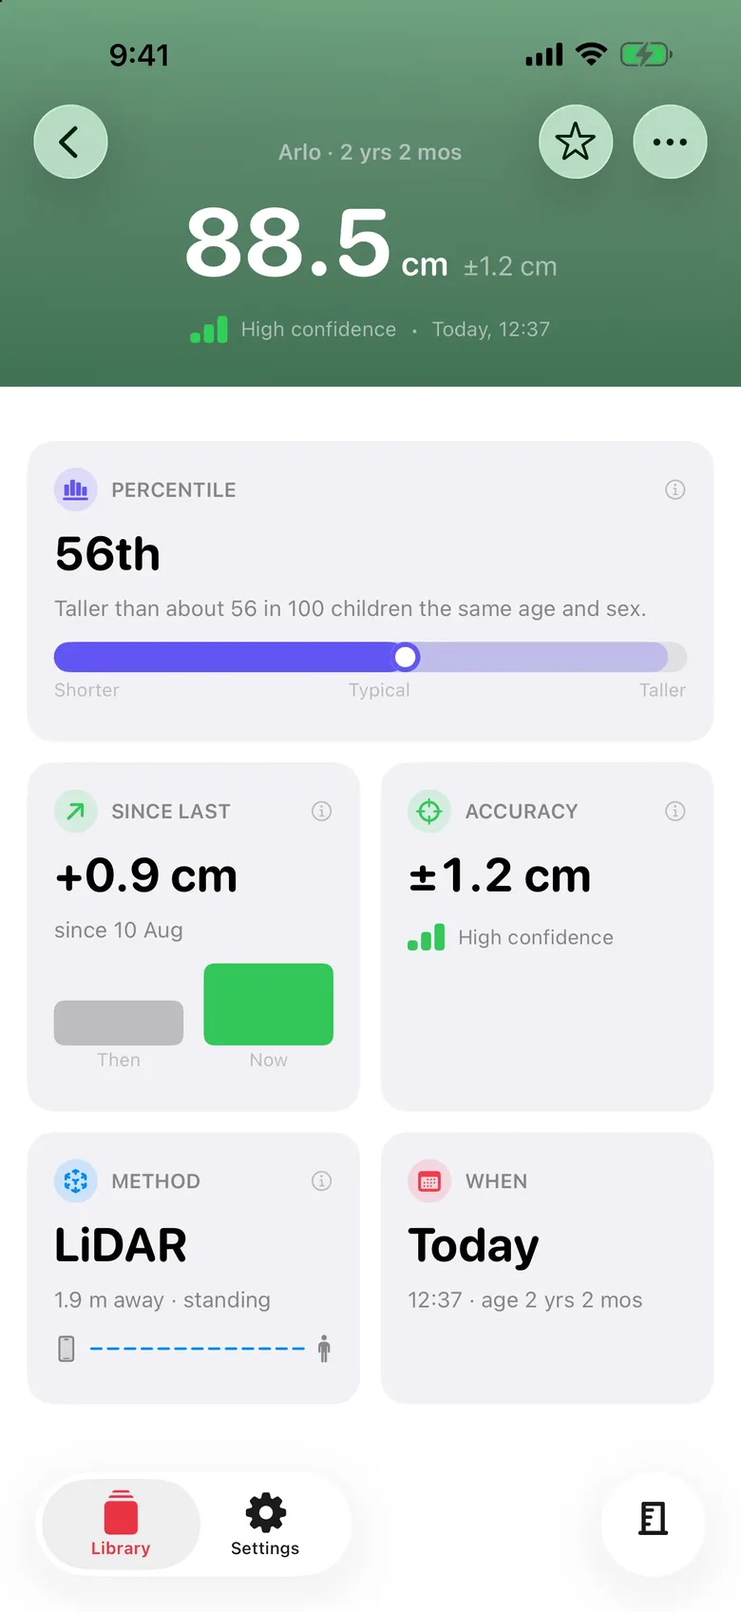
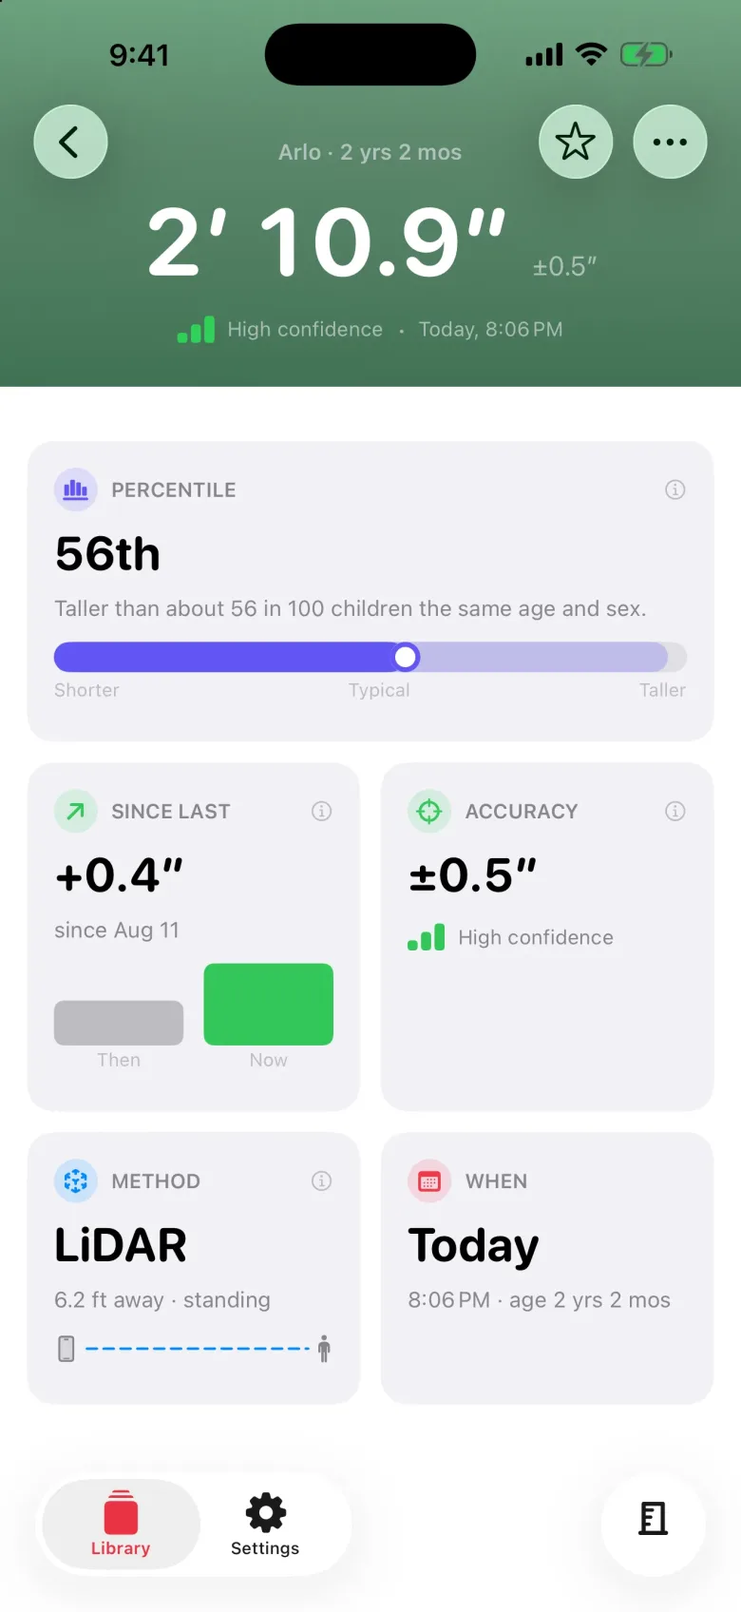
feat: heights in feet and inches (en_US shots and copy)
- Screenshots replaced with the app side's en_US shots (resized to 780 × 1696).
- stand-up removed (the demo figure looked like a debug screen); the standing
  block shows the tip as an HTML pill beside check-card.
- Every height in the HTML, alt text, DoorScene, Moments, FAQ and the guide is
  the app's HeightFormatter imperial value (2′ 11.8″ ± 0.4″, 5′ 7.3″ – 6′ 1.0″);
  distances read "about 4 to 11 feet". The FAQ's units answer says it follows
  the iPhone's region or Settings.
- The share image re-rendered with feet and inches.

diff --git a/src/routes/+page.svelte b/src/routes/+page.svelte
@@ -45,13 +45,17 @@
 		{
 			icon: 'gauge',
 			title: 'Every height shows its range',
-			body: 'Like ± 0.9 cm, and how sure it is.'
+			body: 'Like ± 0.4″, and how sure it is.'
 		}
 	];
 
 	const also = [
 		{ icon: 'bell', title: 'Reminders to measure', body: 'Per person, scheduled on your iPhone.' },
-		{ icon: 'ruler', title: 'Your units', body: 'Feet and inches or centimetres, by region.' },
+		{
+			icon: 'ruler',
+			title: 'Your units',
+			body: "Feet and inches or centimetres, by your iPhone's region or in Settings."
+		},
 		{ icon: 'share', title: 'Export to CSV', body: 'Every measurement, in a file you share.' },
 		{ icon: 'stand', title: 'Any age', body: 'Kids, grown-ups, and friends measuring for fun.' }
 	];
@@ -105,7 +109,7 @@
 
 <div id="features">
 	<Feature id="measure" eyebrow="Measure" title="Measure your child's height with your iPhone.">
-		<p>Point, hold still, done. It captures by itself from 1.2 to 3.5 m away.</p>
+		<p>Point, hold still, done. It captures by itself from about 4 to 11 feet away.</p>
 		<p class="text-base text-label-3">
 			Live measuring needs LiDAR (iPhone 12 Pro and later Pro models). Any iPhone can type a height.
 			<a href="/how-to-measure-height" class="text-accent underline underline-offset-2"
@@ -118,7 +122,7 @@
 				<Screenshot
 					name="measure-live"
 					dark={false}
-					alt="Doorframe's Measure screen: a toddler standing on a wooden floor, measured live at 91.0 cm, plus or minus 0.9 cm, high confidence, while it says Hold still. Capturing"
+					alt="Doorframe's Measure screen: a toddler standing on a wooden floor, measured live at 2 feet 11.8 inches, plus or minus 0.4 inches, high confidence, while it says Hold still. Capturing"
 				/>
 			</PhoneFrame>
 		{/snippet}
@@ -139,10 +143,10 @@
 			<div
 				class="inline-flex items-center gap-4 rounded-full bg-grouped py-3 pr-6 pl-7"
 				role="img"
-				aria-label="A reading: 91.2 cm, plus or minus 0.9 cm, high confidence"
+				aria-label="A reading: 2 feet 11.8 inches, plus or minus 0.4 inches, high confidence"
 			>
-				<span class="font-rounded text-3xl font-bold tabular-nums">91.2 cm</span>
-				<span class="text-sm leading-tight text-label-2">± 0.9 cm<br />High confidence</span>
+				<span class="font-rounded text-3xl font-bold tabular-nums">2′ 11.8″</span>
+				<span class="text-sm leading-tight text-label-2">± 0.4″<br />High confidence</span>
 				<span class="flex items-end gap-0.5 text-go" aria-hidden="true">
 					<span class="h-2 w-1.5 rounded-sm bg-current"></span>
 					<span class="h-3 w-1.5 rounded-sm bg-current"></span>
@@ -161,23 +165,21 @@
 		<p>Sitting, squatting or kneeling? It waits.</p>
 		<p>Shorter than last time? It asks "Were they standing up?" before you save.</p>
 		{#snippet media()}
-			<div class="flex items-start gap-4 sm:gap-6">
-				<PhoneFrame width="min(240px, 42vw)">
+			<div class="flex flex-col items-center gap-8">
+				<!-- Measure's tip while they sit, squat or kneel (LiveQuality .standUp), as the app's capsule. -->
+				<p
+					class="inline-flex items-center gap-2 rounded-full bg-[#1c1c1e]/85 px-4 py-2 text-sm font-medium text-white"
+				>
+					<Icon name="stand" class="size-4" />
+					Ask them to stand up straight
+				</p>
+				<PhoneFrame>
 					<Screenshot
-						name="stand-up"
+						name="check-card"
 						dark={false}
-						alt="Measure, with the tip Ask them to stand up straight above a figure in the camera view"
+						alt="Save for Arlo? 1 foot 11.7 inches, plus or minus 0.4 inches, with a card: Were they standing up? 11.2 inches shorter than earlier today, and they looked like they were sitting or bending. If so, retake it. Retake and Save below"
 					/>
 				</PhoneFrame>
-				<div class="mt-16">
-					<PhoneFrame width="min(240px, 42vw)">
-						<Screenshot
-							name="check-card"
-							dark={false}
-							alt="Save for Arlo? 60.2 cm, plus or minus 0.9 cm, with a card: Were they standing up? 28.3 cm shorter than earlier today, and they looked like they were sitting or bending. If so, retake it. Retake and Save below"
-						/>
-					</PhoneFrame>
-				</div>
 			</div>
 		{/snippet}
 	</Feature>
@@ -199,7 +201,7 @@
 					<PhoneFrame width="min(240px, 42vw)">
 						<Screenshot
 							name="wall"
-							alt="The full Doorframe: a line-drawn door frame with a ruler; Sam 180.0 cm, Maya 164.0 cm and Arlo 88.5 cm as coloured marks, Arlo's older heights as faint ticks"
+							alt="The full Doorframe: a line-drawn door frame with a ruler in feet; Sam 5 feet 10.9 inches, Maya 5 feet 4.6 inches and Arlo 2 feet 10.9 inches as coloured marks, Arlo's older heights as faint ticks"
 						/>
 					</PhoneFrame>
 				</div>
@@ -213,7 +215,7 @@
 			<PhoneFrame>
 				<Screenshot
 					name="entry-cards"
-					alt="Arlo's measurement: 88.5 cm, plus or minus 1.2 cm, high confidence, today at 12:37; below, cards for Percentile (56th, taller than about 56 in 100 children the same age and sex), Since last (+0.9 cm since 10 Aug), Accuracy (±1.2 cm), Method (LiDAR, 1.9 m away, standing) and When (today, age 2 yrs 2 mos)"
+					alt="Arlo's measurement: 2 feet 10.9 inches, plus or minus 0.5 inches, high confidence, today; below, cards for Percentile (56th, taller than about 56 in 100 children the same age and sex), Since last (+0.4 inches since Aug 11), Accuracy (±0.5 inches), Method (LiDAR, 6.2 feet away, standing) and When (today, age 2 yrs 2 mos)"
 				/>
 			</PhoneFrame>
 		{/snippet}
@@ -226,7 +228,7 @@
 			<PhoneFrame>
 				<Screenshot
 					name="chart"
-					alt="Arlo's page: a Grown-up height card, 170.9 cm to 185.4 cm, an estimate from CDC data and parents' heights, not a promise; a Milestone card, Age 14, Arlo passes Maya in height; then his growth chart, his measurements rising along the shaded percentile bands"
+					alt="Arlo's page: a Grown-up height card, 5 feet 7.3 inches to 6 feet 1.0 inch, an estimate from CDC data and parents' heights, not a promise; a Milestone card, Age 14, Arlo passes Maya in height; then his growth chart, his measurements rising along the shaded percentile bands"
 				/>
 			</PhoneFrame>
 		{/snippet}

diff --git a/src/lib/content/faq.ts b/src/lib/content/faq.ts
@@ -34,15 +34,15 @@ export const FAQ: FaqTopic[] = [
 			},
 			{
 				q: "How do I measure my child's height at home?",
-				a: "Take their shoes off and stand them straight on a hard floor, heels down, looking ahead. With Doorframe, point your iPhone at them from about 1.2 to 3.5 metres away, with their head and feet in view, and hold still: once they're standing up straight, it captures by itself, then asks who it is. For a baby, switch to Lying and lay them flat on the floor. Measure at the same time of day each time; people are a little taller in the morning."
+				a: "Take their shoes off and stand them straight on a hard floor, heels down, looking ahead. With Doorframe, point your iPhone at them from about 4 to 11 feet (1.2 to 3.5 m) away, with their head and feet in view, and hold still: once they're standing up straight, it captures by itself, then asks who it is. For a baby, switch to Lying and lay them flat on the floor. Measure at the same time of day each time; people are a little taller in the morning."
 			},
 			{
 				q: 'How do I measure someone?',
-				a: 'Tap the Measure button in the tab bar. Stand them on the floor, about 1.2 to 3.5 metres away (closer for a baby lying down), with their head and feet in view, and hold roughly still. The ring around Capture fills and Doorframe captures by itself, then asks who it is. If they sit or bend, it says "Ask them to stand up straight" and waits. You can also tap Capture once it turns green. Turn Auto off if you\'d rather always tap.'
+				a: 'Tap the Measure button in the tab bar. Stand them on the floor, about 4 to 11 feet away (closer for a baby lying down), with their head and feet in view, and hold roughly still. The ring around Capture fills and Doorframe captures by itself, then asks who it is. If they sit or bend, it says "Ask them to stand up straight" and waits. You can also tap Capture once it turns green. Turn Auto off if you\'d rather always tap.'
 			},
 			{
 				q: 'How accurate is it?',
-				a: "Every height shows its range (for example 91.2 cm ± 0.9 cm) and how confident Doorframe is. It captures by itself only when it can see their head, their feet and the floor, they're standing up straight, and several readings agree, so measuring someone again gives much the same height: in our testing, usually within about a centimetre between runs. For the best reading, stand them straight, use good light, and hold still. If the range looks wide, measure again."
+				a: "Every height shows its range (for example 2′ 11.8″ ± 0.4″) and how confident Doorframe is. It captures by itself only when it can see their head, their feet and the floor, they're standing up straight, and several readings agree, so measuring someone again gives much the same height: in our testing, usually within about half an inch between runs. For the best reading, stand them straight, use good light, and hold still. If the range looks wide, measure again."
 			},
 			{
 				q: 'What if my toddler sits down?',
@@ -136,7 +136,7 @@ export const FAQ: FaqTopic[] = [
 			},
 			{
 				q: 'How do I switch between centimetres and feet and inches?',
-				a: 'Doorframe follows your region: feet and inches in the US, centimetres elsewhere. To choose, go to Settings, then Units.'
+				a: "Doorframe shows feet and inches or centimetres, following your iPhone's region: feet and inches in the US, centimetres elsewhere. To choose, go to Settings, then Units."
 			},
 			{
 				q: 'What happens if I delete the app?',

diff --git a/src/routes/how-to-measure-height/+page.svelte b/src/routes/how-to-measure-height/+page.svelte
@@ -26,7 +26,7 @@
 	];
 
 	const withDoorframe = [
-		'Shoes off. Stand them on the floor, 1.2 to 3.5\u00a0m from your iPhone.',
+		'Shoes off. Stand them on the floor, about 4 to 11\u00a0feet from your iPhone.',
 		'Open Measure. Keep their head and feet in view.',
 		'Hold still. Doorframe captures once they stand up straight and its readings agree.',
 		'It asks who it is, and the height goes on their page and the family door.'
@@ -88,7 +88,7 @@
 						{#each withDoorframe as step (step)}<li>{step}</li>{/each}
 					</ol>
 					<p class="mt-5 leading-relaxed text-label-2">
-						Every height shows its range, like 91.0 cm ± 0.9 cm. No pencil on the wall, and no book
+						Every height shows its range, like 2′ 11.8″ ± 0.4″. No pencil on the wall, and no book
 						on their head.
 					</p>
 					<p class="mt-3 text-base text-label-3">
@@ -101,7 +101,7 @@
 						<Screenshot
 							name="measure-live"
 							dark={false}
-							alt="Doorframe's Measure screen: a toddler standing on a wooden floor, measured live at 91.0 cm, plus or minus 0.9 cm"
+							alt="Doorframe's Measure screen: a toddler standing on a wooden floor, measured live at 2 feet 11.8 inches, plus or minus 0.4 inches"
 						/>
 					</PhoneFrame>
 				</div>

diff --git a/src/lib/components/MomentsShowcase.svelte b/src/lib/components/MomentsShowcase.svelte
@@ -8,7 +8,7 @@
 <!--
   The Library's Moments shelf, drawn rather than photographed. Every title and
   detail is a sentence the app writes (Moment.title/detail in HomeCards.swift)
-  about the sample family, in centimetres; "Tap to measure." is left off the
+  about the sample family, in feet and inches (en_US); "Tap to measure." is left off the
   last, since a picture can't be tapped. Styled like the app's cards (build 11,
   Photos Memories): with no photo, the person's colour deepened toward the text,
   white words, and the moment's symbol large and faint in the corner. Every
@@ -19,7 +19,7 @@
 	import Icon from './Icon.svelte';
 
 	const moments = [
-		{ icon: 'grew', title: 'Arlo grew 0.9 cm', detail: 'Since 10 Aug' },
+		{ icon: 'grew', title: 'Arlo grew 0.4″', detail: 'Since Aug 11' },
 		{
 			icon: 'will-pass',
 			title: 'Arlo passes Maya at about 14',
@@ -27,7 +27,7 @@
 		},
 		{
 			icon: 'sparkles',
-			title: 'Arlo may grow to 170.9 cm – 185.4 cm',
+			title: 'Arlo may grow to 5′ 7.3″ – 6′ 1.0″',
 			detail: "An estimate from CDC data and parents' heights, not a promise."
 		},
 		{ icon: 'ruler', title: 'Time to measure Arlo', detail: 'Last measured 46 days ago.' }

diff --git a/src/lib/components/DoorScene.svelte b/src/lib/components/DoorScene.svelte
@@ -26,10 +26,11 @@
 	const LABEL_ROOM = 96;
 
 	// The app's sample family (SampleData.swift), shortest first; colours are the palette's `solid`.
+	// Labels are HeightFormatter's feet and inches (en_US); `m` places the marks.
 	const family = [
-		{ name: 'Arlo', m: 0.885, label: '88.5 cm', colour: '#6fcf97' },
-		{ name: 'Maya', m: 1.64, label: '164.0 cm', colour: '#5ac8fa' },
-		{ name: 'Sam', m: 1.8, label: '180.0 cm', colour: '#5e5ce6' }
+		{ name: 'Arlo', m: 0.885, label: '2′ 10.9″', colour: '#6fcf97' },
+		{ name: 'Maya', m: 1.64, label: '5′ 4.6″', colour: '#5ac8fa' },
+		{ name: 'Sam', m: 1.8, label: '5′ 10.9″', colour: '#5e5ce6' }
 	];
 
 	// DoorLayout: px per metre is whichever of height and width runs out first.

diff --git a/scripts/og-image.html b/scripts/og-image.html
@@ -91,9 +91,9 @@
 				FLOOR = 0.7 * H,
 				ink = '#e7e7ec';
 			const family = [
-				['Arlo', 0.885, '88.5 cm', '#6fcf97'],
-				['Maya', 1.64, '164.0 cm', '#5ac8fa'],
-				['Sam', 1.8, '180.0 cm', '#5e5ce6']
+				['Arlo', 0.885, '2′ 10.9″', '#6fcf97'],
+				['Maya', 1.64, '5′ 4.6″', '#5ac8fa'],
+				['Sam', 1.8, '5′ 10.9″', '#5e5ce6']
 			];
 			const topMetres = Math.max(2.25, 1.8 * 1.06);
 			const S = Math.min((FLOOR - 0.06 * H) / topMetres, (W * 0.86 - 96) / 1.32);

diff --git a/docs/app-handoff-2026-10-11b.md b/docs/app-handoff-2026-10-11b.md
@@ -1,0 +1,78 @@
+# From the app side: show heights in feet and inches (before launch)
+
+Written 2026-10-11 by the Doorframe app agent (session `doorframe-6d`), at
+the owner's request. **This must be done before the production deploy** (the
+deploy still waits for the owner's go once the App Store page opens).
+
+## Why
+
+Every height on the site is in centimetres: the screenshots were taken in
+en_GB and the HTML copies those numbers. Most visitors are in the US, and
+the App Store listing and screenshots are en_US. The owner wants **feet and
+inches everywhere**, so the numbers make sense to a US parent.
+
+The app does this by itself: units follow the iPhone's region (US = feet
+and inches), or a setting. All values below come from the app's own
+formatter (`HeightFormatter`), so the site and the app match exactly.
+
+## 1. New screenshots (en_US, feet and inches)
+
+Folder: `docs/app-handoff-2026-10-11b/screens/` (1320 × 2868, `.webp`, the
+same scenes as the ones you have). **Replace** the files in
+`static/images/screens/` with the same names. Your current files are
+780 × 1696, so resize them to match.
+
+| File                     | Shows                                                                                                                                | Was              |
+| ------------------------ | ------------------------------------------------------------------------------------------------------------------------------------ | ---------------- |
+| `measure-live-light`     | The AI toddler scene, reading **2′ 11.8″ ±0.4″ · 5.9 ft away**, "Hold still. Capturing…"                                             | 91.0 cm          |
+| `check-card-light`       | Save for Arlo? **1′ 11.7″ ±0.4″**; "Were they standing up? **11.2″ shorter** than earlier today…"                                    | 60.2 cm, 28.3 cm |
+| `library-light/dark`     | Doorframe card: Sam **5′ 10.9″**, Maya **5′ 4.6″**, Arlo **2′ 10.9″**; Recent 2′ 10.9″ (Today), 2′ 10.5″ (Aug 11), 2′ 10.1″ (Jun 11) | cm               |
+| `wall-light/dark`        | Full-screen Doorframe, ruler in **feet** (1′–6′), the same three marks                                                               | ruler in cm      |
+| `entry-cards-light/dark` | Arlo **2′ 10.9″ ±0.5″**, 56th, Since last **+0.4″ since Aug 11**, Accuracy **±0.5″**, LiDAR **6.2 ft away**, Today, age 2 yrs 2 mos  | 88.5 cm          |
+| `chart-light/dark`       | Grown-up height **5′ 7.3″ – 6′ 1.0″**, Age 14 milestone, chart axis in **inches**                                                    | cm               |
+
+## 2. The "stand up" screen (`stand-up-light`): drop the picture
+
+It shows the demo's grey stand-in figure and a sitting reading of 60.2 cm.
+To a visitor that looks like a debug screen. **Remove that screenshot.**
+If the "Wriggly toddlers" block needs a visual next to the check card, show
+the tip as a small HTML pill, like your 91.2 cm reading card: a person
+symbol and **"Ask them to stand up straight"**, with no number.
+`check-card-light` stays as the main visual for that block.
+
+## 3. Heights written in the HTML and text
+
+Change each one (alt text too):
+
+| Where                                              | Now                                                                    | Make it                                                                                                         |
+| -------------------------------------------------- | ---------------------------------------------------------------------- | --------------------------------------------------------------------------------------------------------------- |
+| `+page.svelte` reading card                        | 91.2 cm, ± 0.9 cm                                                      | **2′ 11.8″**, **± 0.4″**, High confidence (the same as the measure-live shot)                                   |
+| `+page.svelte` coaching                            | "Like ± 0.9 cm, and how sure it is."                                   | "Like ± 0.4″, and how sure it is."                                                                              |
+| `+page.svelte` measure-live alt                    | 91.0 cm, plus or minus 0.9 cm                                          | 2 feet 11.8 inches, plus or minus 0.4 inches                                                                    |
+| `+page.svelte` check-card alt                      | 60.2 cm … 28.3 cm shorter                                              | 1 foot 11.7 inches … 11.2 inches shorter                                                                        |
+| `+page.svelte` wall / library / entry / chart alts | cm values                                                              | the values in the table in section 1 (dates: **Aug 11**, 6.2 ft away; no clock time needed)                     |
+| `DoorScene.svelte` labels                          | 88.5 cm, 164.0 cm, 180.0 cm                                            | **2′ 10.9″**, **5′ 4.6″**, **5′ 10.9″** (keep `m` as is for the drawing; if it draws a ruler, label it in feet) |
+| `MomentsShowcase.svelte`                           | "Arlo grew 0.9 cm" · "Since 10 Aug"                                    | "Arlo grew **0.4″**" · "Since **Aug 11**"                                                                       |
+| `MomentsShowcase.svelte`                           | "may grow to 170.9 cm – 185.4 cm"                                      | "may grow to **5′ 7.3″ – 6′ 1.0″**"                                                                             |
+| `faq.ts` accuracy answer                           | "(for example 91.2 cm ± 0.9 cm)" … "usually within about a centimetre" | "(for example 2′ 11.8″ ± 0.4″)" … "usually within about half an inch"                                           |
+| `how-to-measure-height`                            | "like 91.0 cm ± 0.9 cm", and the alt                                   | "like 2′ 11.8″ ± 0.4″", and the alt as above                                                                    |
+
+Format: use the app's characters, the prime **′** and the double prime **″**
+(not ' and "), with a space after the feet: `2′ 11.8″`. Ranges use an en dash
+with spaces: `5′ 7.3″ – 6′ 1.0″`.
+
+**Keep metric where it is a fact, not an example.** Say once (the FAQ or
+the features list) that Doorframe shows **feet and inches or centimetres**,
+following the iPhone's region, or chosen in Settings. Leave alone any
+distances in the measuring guide that are already in feet, and anything
+that quotes a standard (WHO/CDC).
+
+## 4. Check
+
+- Search `src/` for "cm" and " m " afterwards. Only the units sentence, and
+  anything you deliberately left metric, should remain.
+- Lighthouse as before. Image weight should stay about the same after the
+  resize.
+- Update the preview (site PR #3) and tell `doorframe-6d`: the preview URL,
+  and anything you left in metric and why. **Production stays waiting for
+  the owner's go** (once https://apps.apple.com/app/id6819159306 opens).

diff --git a/AGENTS.md b/AGENTS.md
@@ -59,7 +59,7 @@ scripts/
   verify-lib.js (+ .test.js), verify.js   the copy and origin checks
   export-wordmark.swift   SF Pro Rounded Bold 48pt, tracking -0.6 → SVG outlines
   shots.sh                simulator screenshots via the app's DEBUG launch arguments
-static/images/screens/    {library,wall,chart,entry-cards}-{light,dark}.webp, {measure-live,stand-up,check-card}-light.webp (780 × 1696)
+static/images/screens/    {library,wall,chart,entry-cards}-{light,dark}.webp, {measure-live,check-card}-light.webp (780 × 1696)
 static/images/badges/     Apple's "Download on the App Store" badge, black and white (unaltered)
 static/images/og-image.png  1200 × 630, rendered from scripts/og-image.html
 ```
@@ -71,12 +71,12 @@ static/images/og-image.png  1200 × 630, rendered from scripts/og-image.html
 - **Moments** (`MomentsShowcase`) are drawn, not photographed; every sentence is one the app writes (`Moment.title/detail` in `HomeCards.swift`).
 - **Wordmark:** `swift scripts/export-wordmark.swift > src/lib/assets/wordmark-path.ts`.
 - **Icons** (from the app's `docs/design/icon/final/`, 2026-10-06, app build 8): `static/favicon.svg` is `door.svg` + `mark.svg` (C2PA metadata stripped) on a rounded square, tightly cropped, with a `prefers-color-scheme: dark` variant. `favicon.ico` (16/32/48) and `favicon-96x96.png` render that crop on white; `apple-touch-icon.png`, `icon-192/512.png` are the full 1024 composition, opaque and full-bleed on white (`resvg`). The OG image places `app-icon-1024.png` (transparent corners) on its dark background.
-- **Screenshots:** build the app from `~/Code/ios/Doorframe` for **your own** simulator (never the app agent's `0398B2DE-…`; other agents keep simulators booted, so the script never targets `booted`), install it, then `SIM=<udid> scripts/shots.sh <name> <light|dark> [args]`. It sets 9:41, en_GB (centimetres) and `-demoData -skipOnboarding -inMemory`. Shots: `library` (no args), `wall` (`-openWall`), `chart` (`-openPerson -scrollChart`), `confirm` (`-tab measure -demoLive`, `SHOT_WAIT=12`: auto-capture fires and shows "Is this Arlo?"). `-scrollChart` and `-demoReady` (a frozen steady HUD: `-tab measure -demoLive -demoReady`) are in the app's `main` since 3d164be; all 8 shots were replaced on 2026-10-07 by the app side's build 9 shots (9:41, en_GB, from its uncommitted work: retake if the merged build differs). The simulator can't run ARKit, so the Measure section uses the app side's `measure-live` (2026-10-11: the real Measure screen over an AI-generated scene); a real shot from the owner's iPhone can replace it. `measure-live`, `stand-up` and `check-card` are light only.
+- **Screenshots:** build the app from `~/Code/ios/Doorframe` for **your own** simulator (never the app agent's `0398B2DE-…`; other agents keep simulators booted, so the script never targets `booted`), install it, then `SIM=<udid> scripts/shots.sh <name> <light|dark> [args]`. It sets 9:41, en_GB (centimetres) and `-demoData -skipOnboarding -inMemory`. Shots: `library` (no args), `wall` (`-openWall`), `chart` (`-openPerson -scrollChart`), `confirm` (`-tab measure -demoLive`, `SHOT_WAIT=12`: auto-capture fires and shows "Is this Arlo?"). `-scrollChart` and `-demoReady` (a frozen steady HUD: `-tab measure -demoLive -demoReady`) are in the app's `main` since 3d164be; all 8 shots were replaced on 2026-10-07 by the app side's build 9 shots (9:41, en_GB, from its uncommitted work: retake if the merged build differs). The simulator can't run ARKit, so the Measure section uses the app side's `measure-live` (2026-10-11: the real Measure screen over an AI-generated scene); a real shot from the owner's iPhone can replace it. `measure-live` and `check-card` are light only. **Heights are in feet and inches** (owner, 2026-10-11b): shots are en_US, and every height in the HTML is the app's `HeightFormatter` imperial value (`2′ 11.8″`, prime and double prime, a space after the feet; ranges `5′ 7.3″ – 6′ 1.0″`). The units answer in the FAQ says it follows the iPhone's region or Settings.
 - **SEO** (2026-10-10): every page passes `SeoHead` a unique title (≤ 60 characters, intent words first) and description (~150–160). JSON-LD: the home page has WebSite, Organization and MobileApplication; Support has FAQPage, built from `faq.ts`; sub-pages pass `breadcrumb` for a BreadcrumbList. Keep `lastmod` in `static/sitemap.xml` current (and add every new page). FAQ answers for search questions still describe only what the app does. Audience (owner, 2026-10-11): parents measuring kids first, but anyone (grown-ups, friends for fun); say so in titles and copy. `/how-to-measure-height` targets the search "how to measure a child's height at home" (HowTo JSON-LD); home section copy stays short (a title, one or two lines, a number).
 - **Page screenshots** (light/dark × phone/desktop): reveal sections hide until scrolled, so scroll the page before a full-page capture. Headless Chrome's window can't go below ~500 px; use Playwright with a 390 px viewport.
 
 ## At launch
 
 1. Done 2026-10-11: `APP_STORE_ID` is `6819159306` in `src/lib/constants/app.ts`. It makes `APP_STORE_URL`: the CTA is Apple's badge (`AppStoreCta`, black or white by colour scheme), the Smart App Banner (`apple-itunes-app`) appears, and the MobileApplication JSON-LD gets `downloadUrl`. Setting it to `null` brings back "Coming soon".
-2. The Measure section shows `measure-live`: the app's real Measure screen over an **AI-generated** scene (no real child; never caption it as a customer). `stand-up` and `check-card` show the standing check. Shots with no dark twin pass `dark={false}` to `Screenshot`.
+2. The Measure section shows `measure-live`: the app's real Measure screen over an **AI-generated** scene (no real child; never caption it as a customer). `check-card` shows the standing check, beside an HTML pill for the tip (the demo's `stand-up` shot looked like a debug screen; app side, 2026-10-11b). Shots with no dark twin pass `dark={false}` to `Screenshot`.
 3. If the domain ever changes: add it in Vercel, then change `SITE_URL`, `static/sitemap.xml`, `static/robots.txt`, `SITE` in `scripts/verify.js`, the canonical test in `errors.test.ts` and the host redirect in `vercel.json` together, and tell the app side the new `/privacy` and `/support` URLs (owner approval).

diff --git a/CLAUDE.md b/CLAUDE.md
@@ -59,7 +59,7 @@ scripts/
   verify-lib.js (+ .test.js), verify.js   the copy and origin checks
   export-wordmark.swift   SF Pro Rounded Bold 48pt, tracking -0.6 → SVG outlines
   shots.sh                simulator screenshots via the app's DEBUG launch arguments
-static/images/screens/    {library,wall,chart,entry-cards}-{light,dark}.webp, {measure-live,stand-up,check-card}-light.webp (780 × 1696)
+static/images/screens/    {library,wall,chart,entry-cards}-{light,dark}.webp, {measure-live,check-card}-light.webp (780 × 1696)
 static/images/badges/     Apple's "Download on the App Store" badge, black and white (unaltered)
 static/images/og-image.png  1200 × 630, rendered from scripts/og-image.html
 ```
@@ -71,12 +71,12 @@ static/images/og-image.png  1200 × 630, rendered from scripts/og-image.html
 - **Moments** (`MomentsShowcase`) are drawn, not photographed; every sentence is one the app writes (`Moment.title/detail` in `HomeCards.swift`).
 - **Wordmark:** `swift scripts/export-wordmark.swift > src/lib/assets/wordmark-path.ts`.
 - **Icons** (from the app's `docs/design/icon/final/`, 2026-10-06, app build 8): `static/favicon.svg` is `door.svg` + `mark.svg` (C2PA metadata stripped) on a rounded square, tightly cropped, with a `prefers-color-scheme: dark` variant. `favicon.ico` (16/32/48) and `favicon-96x96.png` render that crop on white; `apple-touch-icon.png`, `icon-192/512.png` are the full 1024 composition, opaque and full-bleed on white (`resvg`). The OG image places `app-icon-1024.png` (transparent corners) on its dark background.
-- **Screenshots:** build the app from `~/Code/ios/Doorframe` for **your own** simulator (never the app agent's `0398B2DE-…`; other agents keep simulators booted, so the script never targets `booted`), install it, then `SIM=<udid> scripts/shots.sh <name> <light|dark> [args]`. It sets 9:41, en_GB (centimetres) and `-demoData -skipOnboarding -inMemory`. Shots: `library` (no args), `wall` (`-openWall`), `chart` (`-openPerson -scrollChart`), `confirm` (`-tab measure -demoLive`, `SHOT_WAIT=12`: auto-capture fires and shows "Is this Arlo?"). `-scrollChart` and `-demoReady` (a frozen steady HUD: `-tab measure -demoLive -demoReady`) are in the app's `main` since 3d164be; all 8 shots were replaced on 2026-10-07 by the app side's build 9 shots (9:41, en_GB, from its uncommitted work: retake if the merged build differs). The simulator can't run ARKit, so the Measure section uses the app side's `measure-live` (2026-10-11: the real Measure screen over an AI-generated scene); a real shot from the owner's iPhone can replace it. `measure-live`, `stand-up` and `check-card` are light only.
+- **Screenshots:** build the app from `~/Code/ios/Doorframe` for **your own** simulator (never the app agent's `0398B2DE-…`; other agents keep simulators booted, so the script never targets `booted`), install it, then `SIM=<udid> scripts/shots.sh <name> <light|dark> [args]`. It sets 9:41, en_GB (centimetres) and `-demoData -skipOnboarding -inMemory`. Shots: `library` (no args), `wall` (`-openWall`), `chart` (`-openPerson -scrollChart`), `confirm` (`-tab measure -demoLive`, `SHOT_WAIT=12`: auto-capture fires and shows "Is this Arlo?"). `-scrollChart` and `-demoReady` (a frozen steady HUD: `-tab measure -demoLive -demoReady`) are in the app's `main` since 3d164be; all 8 shots were replaced on 2026-10-07 by the app side's build 9 shots (9:41, en_GB, from its uncommitted work: retake if the merged build differs). The simulator can't run ARKit, so the Measure section uses the app side's `measure-live` (2026-10-11: the real Measure screen over an AI-generated scene); a real shot from the owner's iPhone can replace it. `measure-live` and `check-card` are light only. **Heights are in feet and inches** (owner, 2026-10-11b): shots are en_US, and every height in the HTML is the app's `HeightFormatter` imperial value (`2′ 11.8″`, prime and double prime, a space after the feet; ranges `5′ 7.3″ – 6′ 1.0″`). The units answer in the FAQ says it follows the iPhone's region or Settings.
 - **SEO** (2026-10-10): every page passes `SeoHead` a unique title (≤ 60 characters, intent words first) and description (~150–160). JSON-LD: the home page has WebSite, Organization and MobileApplication; Support has FAQPage, built from `faq.ts`; sub-pages pass `breadcrumb` for a BreadcrumbList. Keep `lastmod` in `static/sitemap.xml` current (and add every new page). FAQ answers for search questions still describe only what the app does. Audience (owner, 2026-10-11): parents measuring kids first, but anyone (grown-ups, friends for fun); say so in titles and copy. `/how-to-measure-height` targets the search "how to measure a child's height at home" (HowTo JSON-LD); home section copy stays short (a title, one or two lines, a number).
 - **Page screenshots** (light/dark × phone/desktop): reveal sections hide until scrolled, so scroll the page before a full-page capture. Headless Chrome's window can't go below ~500 px; use Playwright with a 390 px viewport.
 
 ## At launch
 
 1. Done 2026-10-11: `APP_STORE_ID` is `6819159306` in `src/lib/constants/app.ts`. It makes `APP_STORE_URL`: the CTA is Apple's badge (`AppStoreCta`, black or white by colour scheme), the Smart App Banner (`apple-itunes-app`) appears, and the MobileApplication JSON-LD gets `downloadUrl`. Setting it to `null` brings back "Coming soon".
-2. The Measure section shows `measure-live`: the app's real Measure screen over an **AI-generated** scene (no real child; never caption it as a customer). `stand-up` and `check-card` show the standing check. Shots with no dark twin pass `dark={false}` to `Screenshot`.
+2. The Measure section shows `measure-live`: the app's real Measure screen over an **AI-generated** scene (no real child; never caption it as a customer). `check-card` shows the standing check, beside an HTML pill for the tip (the demo's `stand-up` shot looked like a debug screen; app side, 2026-10-11b). Shots with no dark twin pass `dark={false}` to `Screenshot`.
 3. If the domain ever changes: add it in Vercel, then change `SITE_URL`, `static/sitemap.xml`, `static/robots.txt`, `SITE` in `scripts/verify.js`, the canonical test in `errors.test.ts` and the host redirect in `vercel.json` together, and tell the app side the new `/privacy` and `/support` URLs (owner approval).
